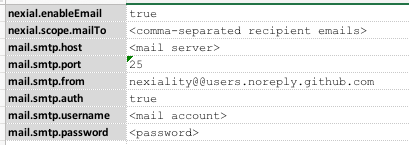
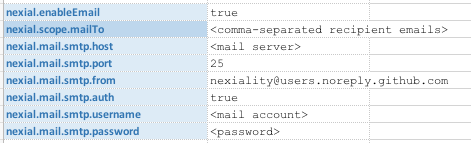
### General - rename some System variables so that their name are prefixed with `nexial.` to avoid conflicts.
### [Nexial Interactive](../interactive)
- now supports reloading of `project.properties` (option: `9`)

### [image commands](../commands/image)
- [`compare(baseline,actual)`](../commands/image/compare(baseline,actual)): increase the thickness of the highlighting
  border to improve readability.

diff --git a/systemvars/content.html b/systemvars/content.html
@@ -249,7 +249,7 @@
             <br/>
             <table cellpadding="0" cellspacing="0">
                 <tr>
-                    <th align="left">otc.region</th>
+                    <th align="left">nexial.otc.region</th>
                     <td>
                         The desire
                         <a href="https://docs.aws.amazon.com/AmazonRDS/latest/UserGuide/Concepts.RegionsAndAvailabilityZones.html"
@@ -257,14 +257,14 @@
                     </td>
                 </tr>
                 <tr>
-                    <th align="left">otc.accessKey</th>
+                    <th align="left">nexial.otc.accessKey</th>
                     <td>The
                         <a href="https://docs.aws.amazon.com/general/latest/gr/aws-sec-cred-types.html#access-keys-and-secret-access-keys"
                            class="external-link" target="_nexial_link">AWS access key</a> to access target S3 service.
                     </td>
                 </tr>
                 <tr>
-                    <th align="left">otc.secretKey</th>
+                    <th align="left">nexial.otc.secretKey</th>
                     <td>The
                         <a href="https://docs.aws.amazon.com/general/latest/gr/aws-sec-cred-types.html#access-keys-and-secret-access-keys"
                            class="external-link" target="_nexial_link">AWS secret key</a> to access target S3 service.
@@ -272,7 +272,7 @@
                 </tr>
                 <tr>
                     <th align="left">nexial.outputCloudBase</th>
-                    <td>The target bucket and path to use for storing execution output.</td>
+                    <td>The target bucket and path (prefix) to use for storing execution output.</td>
                 </tr>
             </table>
         </td>
@@ -290,12 +290,12 @@
                 <li>Enable this system variable</li>
                 <li>Define the mail server connectivity details:
                     <ul>
-                        <li>mail.smtp.host=&lt;the hostname or DNS name of your mail server&gt;</li>
-                        <li>mail.smtp.port=25 (or whatever the configured SMTP port is)</li>
-                        <li>mail.smtp.from=&lt;the FROM email address&gt;</li>
-                        <li>mail.smtp.auth=true|false</li>
-                        <li>mail.smtp.username=&lt;username only needed if mail.smtp.auth is set to true&gt;</li>
-                        <li>mail.smtp.password=&lt;password only needed if mail.smtp.auth is set to true&gt;</li>
+                        <li>nexial.mail.smtp.host=&lt;the hostname or DNS name of your mail server&gt;</li>
+                        <li>nexial.mail.smtp.port=25 (or whatever the configured SMTP port is)</li>
+                        <li>nexial.mail.smtp.from=&lt;the FROM email address&gt;</li>
+                        <li>nexial.mail.smtp.auth=true|false</li>
+                        <li>nexial.mail.smtp.username=&lt;username only needed if nexial.mail.smtp.auth is set to true&gt;</li>
+                        <li>nexial.mail.smtp.password=&lt;password only needed if nexial.mail.smtp.auth is set to true&gt;</li>
                     </ul>
                 </li>
                 <li>Define the recipient email or list via the <code>nexial.scope.mailTo</code> system variable.</li>
@@ -305,8 +305,8 @@
             <a href="../userguide/UnderstandingProjectStructure#projectproperties"><code>project.properties</code></a>
             or the appropriate data file. For example, from command line:<br/>
             <code>
-                set JAVA_OPT=-Dnexial.enableEmail=true -Dmail.smtp.host=mail.mycompany.com -Dmail.smtp.auth=false
-                -Dnexial.scope.mail=my_and_myself@mycompany.com<br/>
+                set JAVA_OPT=-Dnexial.enableEmail=true -Dnexial.mail.smtp.host=mail.mycompany.com
+                 -Dnexial.mail.smtp.auth=false -Dnexial.scope.mail=my_and_myself@mycompany.com<br/>
                 <br/>
                 nexial.cmd -script ... ...
             </code>

diff --git a/tipsandtricks/IntegratingNexialWithEmail.md b/tipsandtricks/IntegratingNexialWithEmail.md
@@ -14,7 +14,7 @@ in order to send out email notification:
 
 1. Turn on email notification by setting the System variable [`nexial.enableEmail`](../systemvars/index#nexia.enableEmail) 
    to `true`.
-2. Define the recepient(s) for the email notification.  Multiple email addresses should be separated by comma (`,`).
+2. Define the recipient(s) for the email notification.  Multiple email addresses should be separated by comma (`,`).
 3. Email host
 4. Email port (typically port 25)
 5. Is authentication required to send email?
@@ -30,9 +30,9 @@ Let's see how we can set things up to enable email notification.
 (on *NIX/MacOS):<br/>
 ```bash
 export JAVA_OPT="-Dnexial.enableEmail=true -Dnexial.mailTo=<recipients> "
-export JAVA_OPT="$JAVA_OPT -Dmail.smtp.host=<mail server> -Dmail.smtp.port=25 "
-export JAVA_OPT="$JAVA_OPT -Dmail.smtp.from=nexiality@users.noreply.github.com "
-export JAVA_OPT="$JAVA_OPT -Dmail.smtp.auth=true -Dmail.smtp.username=<email> -Dmail.smtp.password=<password>"
+export JAVA_OPT="$JAVA_OPT -Dnexial.mail.smtp.host=<mail server> -Dnexial.mail.smtp.port=25 "
+export JAVA_OPT="$JAVA_OPT -Dnexial.mail.smtp.from=nexiality@users.noreply.github.com "
+export JAVA_OPT="$JAVA_OPT -Dnexial.mail.smtp.auth=true -Dnexial.mail.smtp.username=<email> -Dnexial.mail.smtp.password=<password>"
 ... ...
 ./nexial.sh -script ~/projects/... ...
 ```
@@ -40,9 +40,9 @@ export JAVA_OPT="$JAVA_OPT -Dmail.smtp.auth=true -Dmail.smtp.username=<email> -D
 (on Windows):<br/>
 ```batch
 set JAVA_OPT=-Dnexial.enableEmail=true -Dnexial.mailTo=<recipients> 
-set JAVA_OPT=%JAVA_OPT% -Dmail.smtp.host=<email server> -Dmail.smtp.port=25 
-set JAVA_OPT=%JAVA_OPT% -Dmail.smtp.from=nexiality@users.noreply.github.com  
-set JAVA_OPT=%JAVA_OPT% -Dmail.smtp.auth=true -Dmail.smtp.username=<email> -Dmail.smtp.password=<password>   
+set JAVA_OPT=%JAVA_OPT% -Dnexial.mail.smtp.host=<email server> -Dnexial.mail.smtp.port=25 
+set JAVA_OPT=%JAVA_OPT% -Dnexial.mail.smtp.from=nexiality@users.noreply.github.com  
+set JAVA_OPT=%JAVA_OPT% -Dnexial.mail.smtp.auth=true -Dnexial.mail.smtp.username=<email> -Dnexial.mail.smtp.password=<password>   
 ... ...
 nexial.cmd -script C:\projects\... ...
 ```
@@ -54,12 +54,12 @@ The `project.properties` is expected to be found under the `artifact/` directory
 nexial.enableEmail=true
 nexial.scope.mailTo=<comma-separated recipient emails>
 
-mail.smtp.host=<mail server>
-mail.smtp.port=25
-mail.smtp.from=nexiality@users.noreply.github.com
-mail.smtp.auth=true
-mail.smtp.username=<mail account>
-mail.smtp.password=<password>
+nexial.mail.smtp.host=<mail server>
+nexial.mail.smtp.port=25
+nexial.mail.smtp.from=nexiality@users.noreply.github.com
+nexial.mail.smtp.auth=true
+nexial.mail.smtp.username=<mail account>
+nexial.mail.smtp.password=<password>
 ```
 
 
@@ -69,10 +69,10 @@ mail.smtp.password=<password>
 
 ### Combining to Improve Flexibility
 It is important to note that it is entirely possible to mix up the above 3 techniques to improve flexibiltiy.  For 
-example, one might have a series of scripts configured to send email notification to `email_1` and `email_2`,
-but when these scripts are executed in the Jenkins environment, email notification should be sent to `email_3` and
-`email_4`.  There wouldn't be a need to modify existing scripts or `project.properties`.  Instead, one can specify
-the new email recipients via System variable, like this:
+example, one might have a series of scripts configured to send email notification to `email_1` and `email_2`, but when 
+these scripts are executed in the Jenkins environment, email notification should be sent to `email_3` and `email_4`.  
+There would not be a need to modify existing scripts or `project.properties`.  Instead, one can specify the new email 
+recipients via System variable, like this:
 
 ```bash
 export JAVA_OPT=-Dnexial.mailTo=<email_3,email_4>
@@ -90,16 +90,16 @@ Since Gmail is a very popular email solution, it's worth the effort to provide G
 ```properties
 nexial.enableEmail=true
 nexial.mailTo=<recipients>
-mail.smtp.host=smtp.gmail.com
-mail.smtp.port=587
-mail.smtp.from=nexial-noreply@gmail.com
-mail.smtp.starttls.enable=true
-mail.smtp.auth=true
-mail.smtp.username=<email>
-mail.smtp.password=<password>
+nexial.mail.smtp.host=smtp.gmail.com
+nexial.mail.smtp.port=587
+nexial.mail.smtp.from=nexial-noreply@gmail.com
+nexial.mail.smtp.starttls.enable=true
+nexial.mail.smtp.auth=true
+nexial.mail.smtp.username=<email>
+nexial.mail.smtp.password=<password>
 ```
 
-Note that `mail.smtp.starttls.enable` is **REQUIRED** to be `true` for Gmail.  Same for `mail.smtp.auth` and the 
-target email and password for authentication.
+Note that `nexial.mail.smtp.starttls.enable` is **REQUIRED** to be `true` for Gmail.  Same for `nexial.mail.smtp.auth` 
+and the target email and password for authentication.
 
 {% include _gmail_less_secure.md %}

diff --git a/commands/sms/index.md b/commands/sms/index.md
@@ -10,8 +10,8 @@ comments: true
 Automate the process of sending 
 <a href="https://en.wikipedia.org/wiki/SMS" class="external-link" target="_nexial_link">SMS</a> to one or more mobile
 numbers. Note that a [one-time setup](#one-time-setup) is required in order to enable the cloud-based SMS messaging 
-capability. This also means that while Nexial does not incur any cost to automate SMS messaging, the
-underlying cloud service can likely incur some costs to utilize the feature.
+capability. This also means that while Nexial does not incur any cost to automate SMS messaging, the underlying cloud 
+service can likely incur some costs to utilize the feature.
 
 Future enhancement to this command group might include receiving SMS messages as well. Any 
 <a href="https://github.com/nexiality/nexial-core/issues/new/choose" class="external-link" target="nexial_target">
@@ -21,17 +21,18 @@ comment or feature requests</a> are most welcome!
 ### One-time setup
 Nexial uses <a href="https://aws.amazon.com/sns/" class="external-link" target="nexial_external">AWS SNS</a> as the 
 underlying SMS service. Hence, the following one-time setup is required to enable the appropriate AWS configuration. 
-Note that AWS SNS is not free, although for a very small amount of monthly use, it will unlikely to incur any costs. See the online
+Note that AWS SNS is not free, although for a very small amount of monthly use, it will unlikely to incur any costs. 
+See the online
 <a href="https://aws.amazon.com/sns/sms-pricing/" class="external_link" target="nexial_external">SMS Pricing listing</a>
 for more details.
 
-The following information is **REQUIRED** to enable SMS messaging.  One can 
+The following information is **REQUIRED** to enable SMS messaging.
 
-| setting          | default     | explanation |
-|------------------|-------------|-------------|
-| `sms.region`     | `us-east-1` | (Optional) Specify the AWS region to use for the SMS (SNS) service. |
-| `sms.accessKey`  |             | [**REQUIRED**] Specify the AWS access key to use for the SMS (SNS) service. |
-| `sms.secretKey`  |             | [**REQUIRED**] Specify the AWS secret key to use for the SMS (SNS) service. |
+| setting              | default     | explanation |
+|----------------------|-------------|-------------|
+|`nexial.sms.region`   | `us-east-1` | (Optional) Specify the AWS region to use for the SMS (SNS) service. |
+|`nexial.sms.accessKey`|             | [**REQUIRED**] Specify the AWS access key to use for the SMS (SNS) service. |
+|`nexial.sms.secretKey`|             | [**REQUIRED**] Specify the AWS secret key to use for the SMS (SNS) service. |
 
 <br/>
 
@@ -40,20 +41,21 @@ via command line and via `project.properties`. For example,
 
 - via command line:
   ```batch
-  set JAVA_OPT=-Dsms.accessKey=... -Dsms.secretKey=...
+  set JAVA_OPT=-Dnexial.sms.accessKey=... -Dnexial.sms.secretKey=...
   nexial.cmd -script ... ...
   ```
 - via `project.properties`:
   ```properties
-  sms.accessKey=...
-  sms.secretKey=...
-  sms.region=...
+  nexial.sms.accessKey=...
+  nexial.sms.secretKey=...
+  nexial.sms.region=...
   ```
 
 
 ### Zero-Touch Environment
-Note that the SMS messaging feature will work in zero-touch environments.
+Note that the SMS messaging feature will work in zero-touch environments like Jenkins.
 
 
 ### Available Commands
 - [sms &raquo; `sendText(phones,text)`](sendText(phones,text))
+

diff --git a/commands/sound/speak(text).md b/commands/sound/speak(text).md
@@ -19,13 +19,13 @@ Current implementation limits `text` to 500 characters since this has direct imp
 <a href="https://aws.amazon.com/polly/" class="external-link" link="nexial_target">AWS Polly</a> 
 as the underlying text-to-speech engine. To enable AWS Polly, the following configuration details must be provided:
 
-| setting          | default     | explanation |
-|------------------|-------------|-------------|
-| `tts.region`     | `us-east-1` | (Optional) Specify the AWS region to use for the text-to-speech service. |
-| `tts.accessKey`  |             | [**REQUIRED**] Specify the AWS access key to use for the text-to-speech service. |
-| `tts.secretKey`  |             | [**REQUIRED**] Specify the AWS secret key to use for the text-to-speech service. |
-| `tts.sampleRate` | 22050       | (Optional) The audio frequency specified in Hz. The valid values are `8000`, `16000` and `22050`. |
-| `tts.language`   | en-GB       | (Optional) The language code of `text` to which to translate. Here are languages currently supported:<br/> ![](image/speak_01.png) |
+| setting               | default     | explanation |
+|-----------------------|-------------|-------------|
+|`nexial.tts.region`    | `us-east-1` | (Optional) Specify the AWS region to use for the text-to-speech service. |
+|`nexial.tts.accessKey` |             | [**REQUIRED**] Specify the AWS access key to use for the text-to-speech service. |
+|`nexial.tts.secretKey` |             | [**REQUIRED**] Specify the AWS secret key to use for the text-to-speech service. |
+|`nexial.tts.sampleRate`| 22050       | (Optional) The audio frequency specified in Hz. The valid values are `8000`, `16000` and `22050`. |
+|`nexial.tts.language`  | en-GB       | (Optional) The language code of `text` to which to translate. Here are languages currently supported:<br/> ![](image/speak_01.png) |
 
 <br/>
 
@@ -34,14 +34,14 @@ via command line and via `project.properties`. For example,
 
 - via command line:
   ```batch 
-  set JAVA_OPT=-Dtts.accessKey=... -Dtts.secretKey=...
+  set JAVA_OPT=-Dnexial.tts.accessKey=... -Dnexial.tts.secretKey=...
   nexial.cmd -script ... ...
   ```
 - via `project.properties`:
   ```properties
-  tts.accessKey=...
-  tts.secretKey=...
-  tts.language=en-US
+  nexial.tts.accessKey=...
+  nexial.tts.secretKey=...
+  nexial.tts.language=en-US
   ```
 
 ### Text Pattern

diff --git a/release/nexial-core-v1.8.changelog.md b/release/nexial-core-v1.8.changelog.md
@@ -11,9 +11,11 @@ comments: true
 
 
 ### General
+- rename some System variables so that their name are prefixed with `nexial.` to avoid conflicts.
 
 
 ### [Nexial Interactive](../interactive)
+- now supports reloading of `project.properties` (option: `9`)
 
 
 ### [Built-in Function](../functions)
@@ -43,6 +45,8 @@ comments: true
 
 
 ### [image commands](../commands/image)
+- [`compare(baseline,actual)`](../commands/image/compare(baseline,actual)): increase the thickness of the highlighting 
+  border to improve readability.
 
 
 ### [io commands](../commands/io)
